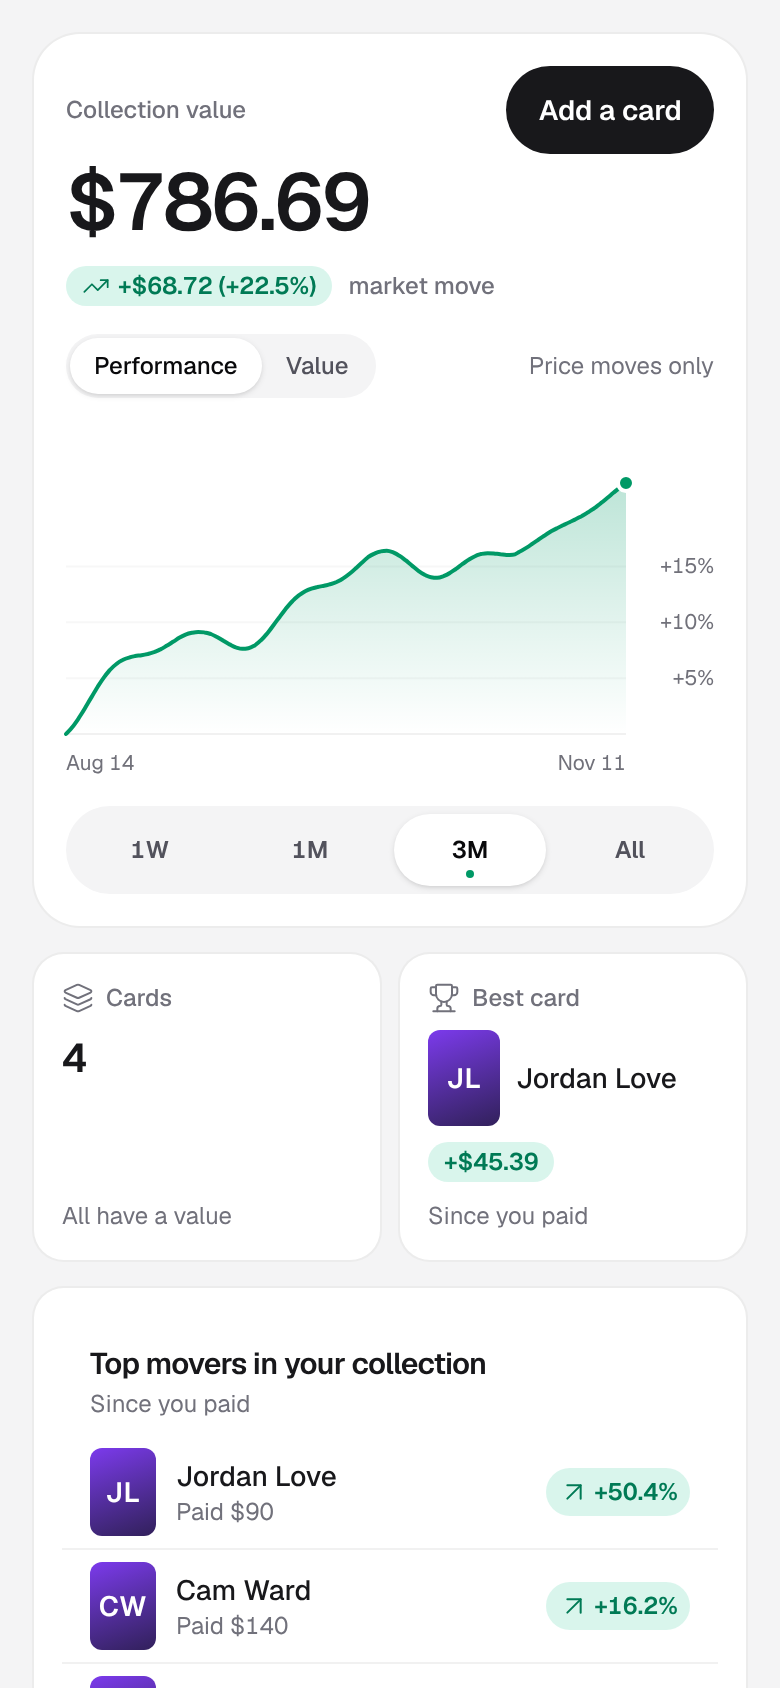
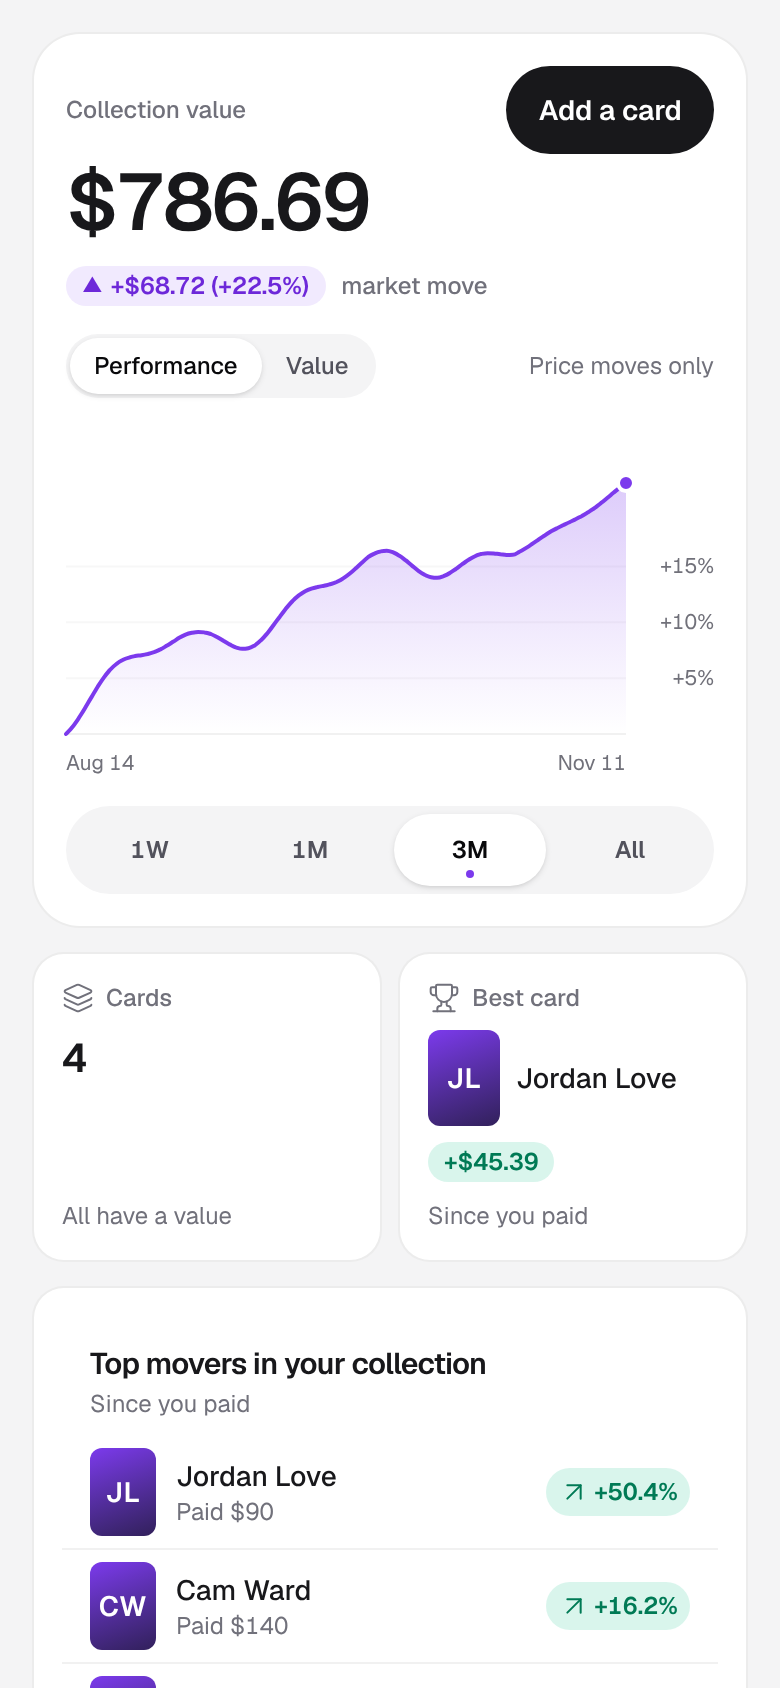
Collection chart: always brand purple; up/down in the change text only
- The line, fill and today dot use the brand tone (#7C3AED light,
  #A78BFA dark) whatever the range did, in Performance and Value.
- The market-move pill carries direction: a lighter purple tint with
  a triangle up, muted gray with a triangle down, gray with no arrow
  when flat, plus the sign and a screen-reader word. Never color alone.
  Pill text is 5.7 to 7.6:1 on its tint in both themes.
- Range-chip dot and the Card added legend dot are brand purple.
- Screenshots refreshed, plus a falling range (down-dark/light).

Claude-Session: https://claude.ai/code/session_01EqJov4BWJqfLxNp56TqFJQ

diff --git a/components/portfolio-hero.tsx b/components/portfolio-hero.tsx
@@ -2,7 +2,7 @@
 
 import Link from "next/link";
 import { memo, useCallback, useEffect, useLayoutEffect, useMemo, useRef, useState, type ReactNode } from "react";
-import { ChevronRight, Layers, Minus, Share, TrendingDown, TrendingUp, Trophy } from "lucide-react";
+import { ChevronRight, Layers, Share, Trophy } from "lucide-react";
 import { AddCardLink } from "@/components/add-card-link";
 import { TopMovers, muted, tile, type HeroCard } from "@/components/collection-movers";
 import { ShapedCardThumb } from "@/components/card-thumb";
@@ -22,7 +22,7 @@ import {
   type ChangeTone,
   type RangeId,
 } from "@/lib/chart/range";
-import { PILL_TONE, TONE_CLASS, collectionMinSpan, type HeroTone } from "@/lib/chart/theme";
+import { PILL_TONE, TONE_CLASS, collectionMinSpan } from "@/lib/chart/theme";
 import {
   cardDaysForCollection,
   indexPoints,
@@ -102,10 +102,28 @@ function storage(): Storage | null {
 
 const label = "text-xs font-medium text-zinc-500 dark:text-zinc-400";
 const pulse = "animate-pulse bg-zinc-200/70 dark:bg-white/[0.06]";
-/** The arrow follows the pill's tone. */
-function PillIcon({ tone }: { tone: HeroTone }) {
-  const Icon = tone === "flat" ? Minus : tone === "down" ? TrendingDown : TrendingUp;
-  return <Icon className="h-3.5 w-3.5" strokeWidth={1.5} aria-hidden />;
+/**
+ * The market-move pill. The chart is always brand purple, so up and down live
+ * here: a lighter purple with ▲ when up, muted gray with ▼ when down, gray with
+ * no arrow when flat. The arrow, the sign and a screen-reader word carry the
+ * direction, never the color alone. Text passes 4.5:1 on its tint in both themes.
+ */
+const MOVE_PILL: Record<ChangeTone, string> = {
+  up: "bg-violet-500/12 text-violet-700 dark:bg-violet-400/15 dark:text-violet-300",
+  down: "bg-zinc-500/12 text-zinc-600 dark:bg-white/[0.07] dark:text-zinc-400",
+  flat: "bg-zinc-500/12 text-zinc-600 dark:bg-white/[0.07] dark:text-zinc-400",
+};
+
+function MoveArrow({ tone }: { tone: ChangeTone }) {
+  if (tone === "flat") return null;
+  return (
+    <>
+      <span aria-hidden className="text-[10px] leading-none">
+        {tone === "up" ? "▲" : "▼"}
+      </span>
+      <span className="sr-only">{tone}</span>
+    </>
+  );
 }
 type CountUp = typeof import("@/components/hero-count-up");
 let countUp: CountUp | null = null;
@@ -268,8 +286,8 @@ function writeStoredMode(store: Storage | null, mode: ChartMode) {
 }
 
 /**
- * Green up, rose down, gray when it reads $0.00 and 0.0%. The % leads: it is
- * the Performance line. Dollars and % can disagree when a gain on a small
+ * Up, down, or flat when it reads $0.00 and 0.0%. The % leads: it is the
+ * Performance line. Dollars and % can disagree when a gain on a small
  * early base is followed by a loss on a bigger one; the line wins.
  */
 export function moveTone(move: MarketMove | null): ChangeTone {
@@ -339,7 +357,6 @@ const CollectionValueCard = memo(function CollectionValueCard({
   const indexed = useMemo<IndexPoint[]>(() => indexPoints(perfPoints, markers), [perfPoints, markers]);
   const move = useMemo(() => marketMove(perfPoints), [perfPoints]);
   const firstDate = points[0]?.date ?? "";
-  const tone = moveTone(move);
   const latest = points[points.length - 1]?.value ?? collectionValue;
   const minSpan = collectionMinSpan(latest);
   const performance = mode === "performance";
@@ -486,9 +503,9 @@ const CollectionValueCard = memo(function CollectionValueCard({
             <>
               <span
                 data-gain={shownTone}
-                className={`inline-flex shrink-0 items-center gap-1 rounded-full px-2 py-0.5 text-xs font-semibold tabular-nums ${PILL_TONE[shownTone]}`}
+                className={`inline-flex shrink-0 items-center gap-1 rounded-full px-2 py-0.5 text-xs font-semibold tabular-nums ${MOVE_PILL[shownTone]}`}
               >
-                <PillIcon tone={shownTone} />
+                <MoveArrow tone={shownTone} />
                 {moveAmount(shownMove)}
               </span>
               <span className={`truncate text-xs font-medium ${muted}`}>
@@ -541,7 +558,7 @@ const CollectionValueCard = memo(function CollectionValueCard({
                 "Price moves only"
               ) : anyAdds ? (
                 <>
-                  <span aria-hidden className={`inline-block h-2 w-2 shrink-0 rounded-full border-[1.5px] border-current ${TONE_CLASS[tone]}`} />
+                  <span aria-hidden className={`inline-block h-2 w-2 shrink-0 rounded-full border-[1.5px] border-current ${TONE_CLASS.brand}`} />
                   Card added
                 </>
               ) : (
@@ -562,7 +579,7 @@ const CollectionValueCard = memo(function CollectionValueCard({
             <ValueChart
               points={performance ? indexed : points}
               ariaLabel={ariaLabel}
-              tone={tone}
+              tone="brand"
               curve="monotone"
               morphKey={`${mode}-${range}`}
               onScrub={onScrub}
@@ -615,7 +632,7 @@ const CollectionValueCard = memo(function CollectionValueCard({
                     <span
                       aria-hidden
                       data-range-dot=""
-                      className={`absolute bottom-1 left-1/2 h-1 w-1 -translate-x-1/2 rounded-full bg-current ${TONE_CLASS[tone]}`}
+                      className={`absolute bottom-1 left-1/2 h-1 w-1 -translate-x-1/2 rounded-full bg-current ${TONE_CLASS.brand}`}
                     />
                   ) : null}
                 </button>

diff --git a/components/portfolio-hero.test.tsx b/components/portfolio-hero.test.tsx
@@ -315,7 +315,7 @@ describe("PortfolioHero redesign: line, ATH and chips", () => {
     const active = track.querySelector("[aria-pressed='true']");
     const dot = active?.querySelector("[data-range-dot]");
     assert.ok(dot);
-    assert.match(dot.getAttribute("class") ?? "", /emerald/);
+    assert.match(dot.getAttribute("class") ?? "", /violet/);
     assert.equal(track.querySelectorAll("[data-range-dot]").length, 1);
     await hero.unmount();
   });
@@ -492,7 +492,8 @@ describe("PortfolioHero market move (Performance)", () => {
     // 1M: Love +$4 on $41, then +$25 on $260 = +$29.00, (45/41 × 285/260 − 1) = +20.3%.
     assert.match(words, /\+\$29\.00 \(\+20\.3%\) market move/);
     assert.doesNotMatch(words, /595%|\+\$244/);
-    assert.match(out, /data-gain="up"[^>]*class="[^"]*emerald/);
+    assert.match(out, /data-gain="up"[^>]*class="[^"]*violet/);
+    assert.match(words, /▲ up \+\$29\.00/);
   });
 
   it("does not move when a card is added and prices stand still", () => {
@@ -504,10 +505,11 @@ describe("PortfolioHero market move (Performance)", () => {
     const out = html({ ...market, cardDays: { rows: still, loading: false, failed: false } });
     assert.match(out, /data-gain="flat"[^>]*class="[^"]*zinc/);
     assert.match(text(out), /\$0\.00 \(0\.0%\) market move/);
+    assert.doesNotMatch(text(out), /[▲▼]/);
     assert.doesNotMatch(text(out), /\+0\.0%/);
   });
 
-  it("goes rose with a minus when prices fell", () => {
+  it("marks a fall with ▼ and a minus in muted gray, never color alone", () => {
     win.localStorage.setItem("slabhold:chart-range:collection", "7d");
     const out = heroOnly({
       ...market,
@@ -517,21 +519,22 @@ describe("PortfolioHero market move (Performance)", () => {
       ]),
       collectionValue: 251,
     });
-    assert.match(out, /data-gain="down"[^>]*class="[^"]*rose/);
+    assert.match(out, /data-gain="down"[^>]*class="[^"]*zinc/);
     assert.doesNotMatch(out, /data-gain="up"/);
-    assert.match(text(out), /−\$9\.00 \(−3\.5%\) market move/);
+    assert.match(text(out), /▼ down −\$9\.00 \(−3\.5%\) market move/);
+    assert.doesNotMatch(out, /rose|emerald|teal/);
     win.localStorage.clear();
   });
 
-  it("is green at +0.6%, rose at −0.6%, and gray only when it reads 0.0%", () => {
+  it("is purple ▲ at +0.6%, gray ▼ at −0.6%, and gray with no arrow only when it reads 0.0%", () => {
     win.localStorage.setItem("slabhold:chart-range:collection", "7d");
     const gain = (love: number) =>
       html({ ...market, values: new Map([["a", okValue(love)], ["b", okValue(215)]]) }).match(/data-gain="(\w+)"[^>]*class="([^"]*)"/);
     // 7D base: $45 + $215 = $260.
     assert.equal(gain(46.56)?.[1], "up");
-    assert.match(gain(46.56)?.[2] ?? "", /emerald/);
+    assert.match(gain(46.56)?.[2] ?? "", /violet/);
     assert.equal(gain(43.44)?.[1], "down");
-    assert.match(gain(43.44)?.[2] ?? "", /rose/);
+    assert.doesNotMatch(gain(43.44)?.[2] ?? "", /rose|violet/);
     assert.equal(gain(45)?.[1], "flat");
     win.localStorage.clear();
   });
@@ -583,6 +586,25 @@ describe("PortfolioHero market move (Performance)", () => {
     assert.doesNotMatch(text(out), /Not enough history/);
     assert.match(out, /animate-pulse|shimmer/);
   });
+});
+
+describe("PortfolioHero chart is always brand purple", () => {
+  before(() => expose("ResizeObserver", HeroResizeObserver));
+  after(() => expose("ResizeObserver", undefined));
+
+  for (const [name, love] of [["up", 50], ["down", 36]] as const) {
+    it(`draws the line, fill and today dot purple when the range is ${name}, in both modes`, async () => {
+      for (const mode of ["performance", "value"]) {
+        win.localStorage.setItem("slabhold:chart-mode:collection", mode);
+        const hero = await mountHero({ ...market, values: new Map([["a", okValue(love)], ["b", okValue(235)]]) });
+        const svg = hero.host.querySelector("svg[role='img']");
+        assert.match(svg?.getAttribute("class") ?? "", /text-violet-600 dark:text-violet-400/);
+        assert.doesNotMatch(svg?.getAttribute("class") ?? "", /emerald|rose|teal/);
+        await hero.unmount();
+      }
+      win.localStorage.clear();
+    });
+  }
 });
 
 describe("PortfolioHero Performance | Value toggle, chips and scrub", () => {
